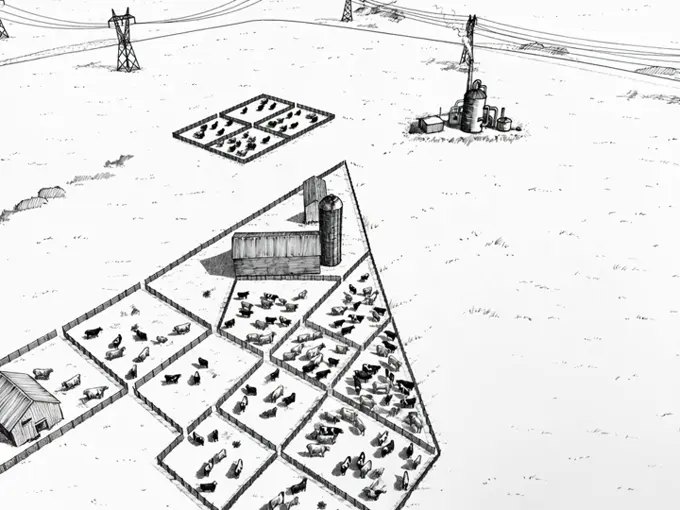
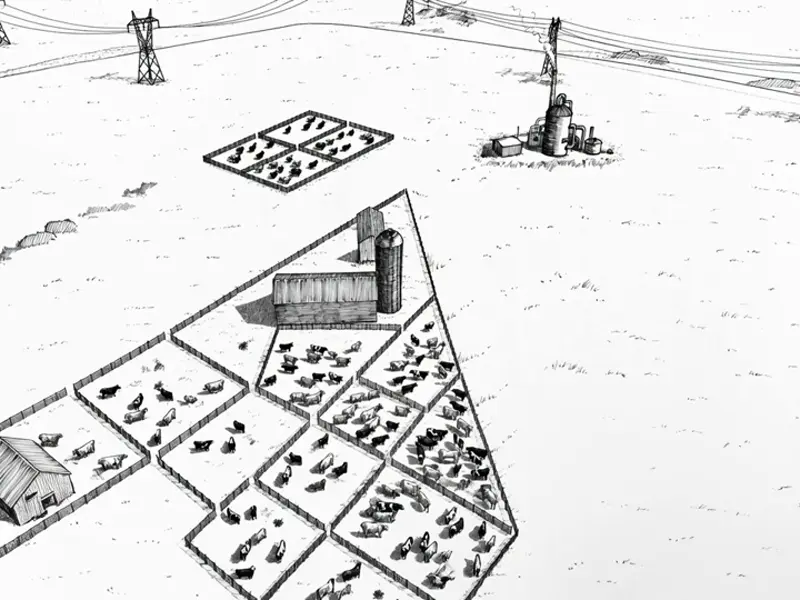
Siting annotation mask and column ratio

Changed region(s): [[0.6794, 0.1471, 0.7103, 0.1765], [0.6794, 0.0882, 0.7103, 0.1176]]

diff --git a/index.html b/index.html
@@ -648,12 +648,19 @@ html.js .claims li.hl .cimg{opacity:1;transform:none}
 .proof-lead b{color:var(--navy);font-weight:600}
 
 /* fig 3 site plan */
-.siting-cols{display:grid;grid-template-columns:1fr 1.35fr;gap:clamp(1.5rem,3vw,2.8rem);align-items:start}
-/* siting camera scrub: frames lift the view from ground level to overhead, then the drafted plan fades in */
+.siting-cols{display:grid;grid-template-columns:1fr 2fr;gap:clamp(1.5rem,3vw,2.8rem);align-items:start}
+/* siting camera scrub: frames lift the view from ground level to overhead; annotations fade in at the top */
 .siteview{position:relative}
 .siteview .sv-frame{display:none;width:100%;height:auto;aspect-ratio:3/2;object-fit:cover}
 html.js .siteview.scrub .sv-frame{display:block}
-html.js .siteview.scrub svg{position:absolute;left:0;top:50%;transform:translateY(-50%);width:100%;height:auto;background:var(--paper);opacity:0}
+html.js .siteview.scrub .sp-plan{position:absolute;left:0;top:50%;transform:translateY(-50%);width:100%;height:auto;background:var(--paper);opacity:0;pointer-events:none}
+.sv-notes{position:absolute;inset:0;width:100%;height:100%;pointer-events:none;opacity:0;transition:opacity .45s ease-out}
+.siteview.noted .sv-notes{opacity:1}
+.sv-notes .ring{fill:none;stroke:var(--navy);stroke-width:2.2;stroke-dasharray:100;stroke-dashoffset:100}
+.siteview.noted .sv-notes .ring{animation:markdraw .9s ease-out forwards}
+.sv-notes .lead{stroke:var(--navy);stroke-width:1.2}
+.sv-notes .nt-big{font-family:"Oswald",sans-serif;font-weight:600;font-size:17px;fill:var(--navy);letter-spacing:.6px;text-transform:uppercase}
+.sv-notes .nt-sub{font-family:"Archivo",sans-serif;font-weight:600;font-size:8.5px;fill:var(--muted);letter-spacing:1.2px;text-transform:uppercase}
 .siteplan{border:1px solid var(--rule-strong);padding:1rem;margin-top:0}
 .siteplan .sp-pulse{fill:var(--amber);opacity:.65}
 .siteplan .sp-core{fill:var(--amber)}
@@ -1040,7 +1047,13 @@ FINISH: unreviewed and undocumented is unfinished; this build ends with the fini
     <figure class="siteplan figarea" aria-label="Illustrative site plan of an energy center inside a landfill parcel">
       <div class="siteview">
       <img class="sv-frame" alt="" aria-hidden="true">
-      <svg viewBox="0 0 900 400" role="img">
+      <svg class="sv-notes" viewBox="0 0 400 300" aria-hidden="true">
+        <ellipse class="ring" pathLength="100" cx="258" cy="70" rx="48" ry="30"/>
+        <line class="lead" x1="285" y1="97" x2="298" y2="158"/>
+        <text class="nt-big" x="298" y="178" text-anchor="middle">2 to 3 acres</text>
+        <text class="nt-sub" x="298" y="193" text-anchor="middle">The entire site footprint</text>
+      </svg>
+      <svg class="sp-plan" viewBox="0 0 900 400" role="img">
         <defs>
           <pattern id="hatchp" width="7" height="7" patternTransform="rotate(45)" patternUnits="userSpaceOnUse">
             <line x1="0" y1="0" x2="0" y2="7" stroke="var(--rule-strong)" stroke-width="1"/>
@@ -1556,6 +1569,8 @@ FINISH: unreviewed and undocumented is unfinished; this build ends with the fini
     var p=Math.max(0,Math.min(1,(innerHeight*0.92-fr.top)/(fr.height+innerHeight*0.55)));
     var idx=Math.min(SVN-1,Math.floor(p/0.85*SVN));
     if(idx!==svIdx){svIdx=idx;svImg.src=svFrames[idx].src}
+    if(p>=0.78)siteview.classList.add('noted');
+    else if(p<0.73)siteview.classList.remove('noted');
   }
 
   /* -------- scroll driver: scrub, spine, heat, running header -------- */
